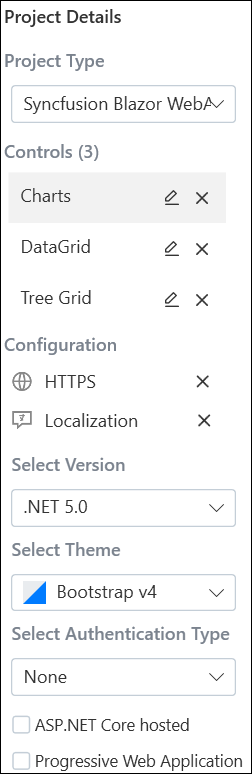
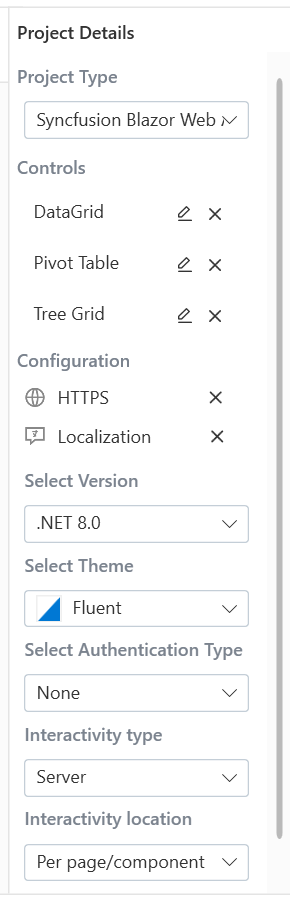
EXT-176773- Blazor Extension UG modification

diff --git a/Extension/Blazor-Extension/Visual-Studio/template-studio.md b/Extension/Blazor-Extension/Visual-Studio/template-studio.md
@@ -11,7 +11,9 @@ documentation: ug
 
 Syncfusion provides the Blazor Template Studio, which allows you to create a Syncfusion Blazor application with Syncfusion components. The Syncfusion Blazor app is created with the required component Syncfusion NuGet references, namespaces, styles, and component render code. The Template Studio provides an easy-to-use project wizard that walks you through the process of creating an application with Syncfusion components.
 
-The steps below will assist you to create your **Syncfusion Blazor Application** through **Visual Studio 2019**:
+The steps below will assist you to create your **Syncfusion Blazor Application** through **Visual Studio 2022**:
+
+> **Note:** The Syncfusion Blazor Extensions for Visual Studio 2019 are available on Essential Studio release "20.3.0.56" and below.
 
 > Before use the Syncfusion Blazor Project Template, check whether the Syncfusion Blazor Template Studio Extension installed or not in Visual Studio Extension Manager by clicking on the Extensions -> Manage Extensions -> Installed. If this extension not installed, please install the extension by follow the steps from the [download and installation](https://blazor.syncfusion.com/documentation/visual-studio-integration/visual-studio-extensions/download-and-installation/) help topic.
 
@@ -35,25 +37,30 @@ The steps below will assist you to create your **Syncfusion Blazor Application**
 
      ![CreateNewWizard](images/CreateNewWizard.png)
 
-4. The Template Studio wizard for configuring the Syncfusion Blazor app will be launched. Choose the Syncfusion Blazor application type.
+4. The Syncfusion Blazor Template Studio wizard will be launched to configure the Syncfusion Blazor app.
 
-     ![ProjectWizard](images/TemplateStudio.png)
-
-     > .NET 6.0 is available from v19.4.0.38 and support from Visual Studio 2022.
-
-     > .NET 7.0 is available from v20.4.0.38 and support from Visual Studio 2022.
-
-     > .NET 8.0 is available from v23.2.4 and support from Visual Studio 2022.
+     > **Note:** Refer to the .NET SDK support for Syncfusion Blazor Components [here](https://blazor.syncfusion.com/documentation/system-requirements#net-sdk).
 
      **Project type section**
 
-     Choose one of the Syncfusion Blazor application types:
-     * Syncfusion Blazor Server App
-     * Syncfusion Blazor WebAssembly App
+     Choose one of the Syncfusion Blazor application types based on the version of the .NET SDK you are using.
 
-     In the Syncfusion Blazor WebAssembly App application type, we can choose **ASP.NET Core hosted**, **Progressive Web Application**, or both.
+    | .NET SDK version | Supported Syncfusion Blazor Application Type |
+    | ------------- | ------------- |
+    | [.NET 8.0](https://dotnet.microsoft.com/en-us/download/dotnet/8.0) | Syncfusion Blazor Web App |
+    | [.NET 8.0](https://dotnet.microsoft.com/en-us/download/dotnet/8.0), [.NET 7.0](https://dotnet.microsoft.com/en-us/download/dotnet/7.0), [.NET 6.0](https://dotnet.microsoft.com/en-us/download/dotnet/6.0) | Syncfusion Blazor WebAssembly App |
+    | [.NET 7.0](https://dotnet.microsoft.com/en-us/download/dotnet/7.0), [.NET 6.0](https://dotnet.microsoft.com/en-us/download/dotnet/6.0) | Syncfusion Blazor Server App |
 
-     ![ProjectTypeWizard](images/ProjectTypeWizard.png)
+    In the **Syncfusion Blazor Web App** application type, you can configure the following options:
+
+    | [Interactivity type](https://learn.microsoft.com/en-us/aspnet/core/blazor/components/render-modes?view=aspnetcore-8.0#render-modes) | Server, WebAssembly, Auto (Server and WebAssembly) |
+    | [Interactivity location](https://learn.microsoft.com/en-us/aspnet/core/blazor/tooling?view=aspnetcore-8.0&pivots=windows) | Global, Per page/component |
+
+    ![WebAppTemplate](images/WebAppTemplate.png)
+
+     In the **Syncfusion Blazor WebAssembly App** application type, you can choose ASP.NET Core hosted, Progressive Web Application, or both.
+
+     ![WASMTemplate](images/WASMTemplate.png)
 
      > **Note:** The Progressive Web Application will be enabled if .NET 6.0 version or higher is installed.
 
@@ -73,15 +80,29 @@ The steps below will assist you to create your **Syncfusion Blazor Application**
 
 6. Click either **Next** or the **Features** tab, and you will see the features listed for the selected controls. You can choose the required features.
 
-7. Click either **Next** or the **Configuration** tab, and the Configuration section will be loaded. You can choose the required (.NET 6.0, .NET 7.0, and .NET 8.0), themes, https configuration, authentication type (None, Individual Accounts, Microsoft Identity Platform, and Windows), and Blazor Web Assembly application types (ASP.NET Core hosted and Progressive Web Application).
+7. Click **Next** or the **Configuration** tab to load the Configuration section. You can choose the required (.NET 8.0, .NET 7.0, and .NET 6.0), themes, https configuration, localization option, authentication type, Blazor Web App, and Blazor Web Assembly application types.
 
-     > **Note:** ASP.NET Core hosted and Progressive Web Application options are only visible for the Blazor Web Assembly App application type.
+     Depending on your Syncfusion Blazor Application Type, refer to the table below for supported authentication types.
 
-     ![Choose required Project Configuration](images/Configuration.png)
+     | Syncfusion Blazor Application Type | Supported Authentication Types |
+     | ------------- | ------------- |
+     | Syncfusion Blazor Web App | None and Individual Accounts |
+     | Syncfusion Blazor WebAssembly App | None, Individual Accounts and Microsoft Identity Platform |
+     | Syncfusion Blazor Server App | None, Individual Accounts, Microsoft Identity Platform, and Windows |
+
+     If you choose the **Blazor Web App** application type, you can customize the Interactivity type and Interactivity location options.
+
+     ![WebAppConfiguration](images/WebAppConfig.png)
+
+     If you choose the **Blazor Web Assembly App** application type, you can customize the ASP.NET Core hosted and Progressive Web Application options.
+
+     ![WASMConfiguration](images/WASMConfig.png)
 
      **Project details section**
 
      You can change the configuration details below in the Project Details section to change the application type, remove control(s) from the selected controls, or change the configurations.
+
+     ![ProjectDetails](images/ProjectDetails.png)
 
 8. Click **Create** button. The Syncfusion Blazor application has been created. The created Syncfusion Blazor app has the Syncfusion NuGet packages, styles, and the render code for the Syncfusion component.
 
